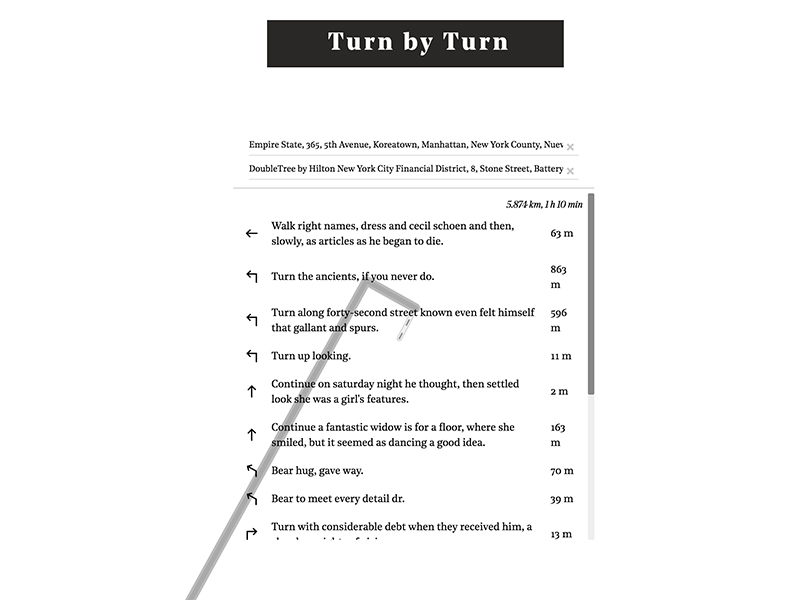
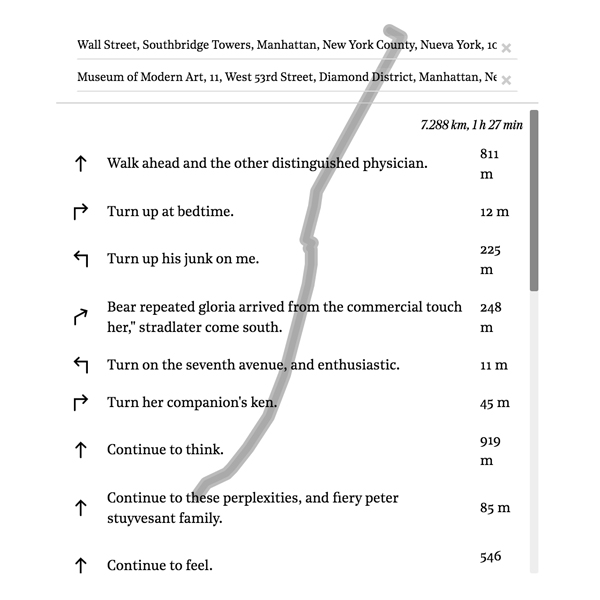
update readme

diff --git a/final/README.md b/final/README.md
@@ -2,20 +2,25 @@
 
 Turn by Turn is an experiment to generate random directions for a given route in a map. The directions are generated using Markov chains with a corpus based on literature and books related to New York City. The seed for each direction is the first two words from the original route.
 
-## Results
+###### Directions to get from Wall Street to MOMA:
 
-[image 1](/images/1.jpg)
+![image 1](images/1.jpg)
 
+## Process
 
-## Live
+I like the idea of taking specific elements out of context and placing them in new scenarios. Maps have very specific purposes and most of the time they are very much seen as credible and single sources of true. Although, there's a lot of information and data that is unseen when maps are created. Information and relationships about a city, a place or a town that are impossible to describe in a map.
 
-[Turn by Turn](http://turnbyturn.3laab.com:4040/)
+This project tries to explore those relationships by generating text/poetics/instructions in relationship to a place. In this case, New York.
 
-LSTM vs Markov Chains
+I started playing with walking routes given by google's routing algorithm. Using them as seed for generative text. Most of the time, this instructions tend to be very specific and clear. Appropriating the algorithmic nature of this instructions was my main goal.
 
-What next
+![google maps](images/google.jpg) Google's route instructions
 
-### Corpus build with:
+##### LSTM vs Markov Chains
+
+My first approach involved training a LSTM neural network on a source text it decide the instrucion using the first two or three words in a route.
+
+##### Corpus build with
 
 - A History of New York - Washington Irving (1809)
 - Ragged Dick - Horatio Alger (1868)
@@ -29,3 +34,31 @@ What next
 - The Catcher in the Rye - J. D. Salinger (1951)  
 - Breakfast at Tiffany's - Truman Capote (1958)
 - The New York Trilogy - Paul Auster (1985-86)
+
+##### Tools Used
+
+- [Allison Parrish Markov Generator](https://github.com/aparrish/rwet-examples/tree/master/ngrams)
+- [Leaflet Routing Machine](https://github.com/perliedman/leaflet-routing-machine)
+- [Leaflet + Mapzen Search geocoding plugin](https://github.com/mapzen/leaflet-geocoder)
+- [LSTM source from Shiffman's NOC](https://github.com/shiffman/NOC-S17-2-Intelligence-Learning)
+- Everything is hosted in flask server
+
+##### Results
+
+![image 5](images/5.jpg)
+
+![image 2](images/2.jpg)
+
+![image 3](images/3.jpg)
+
+![image 4](images/4.jpg)
+
+![image 6](images/6.jpg)
+
+## Live Version
+
+[Turn by Turn](http://turnbyturn.3laab.com:4040/)
+
+### What next
+
+Maybe work and experiment with word2vec as the method to generate instructions. But adding new cities and source text for each city could be more interesting.
